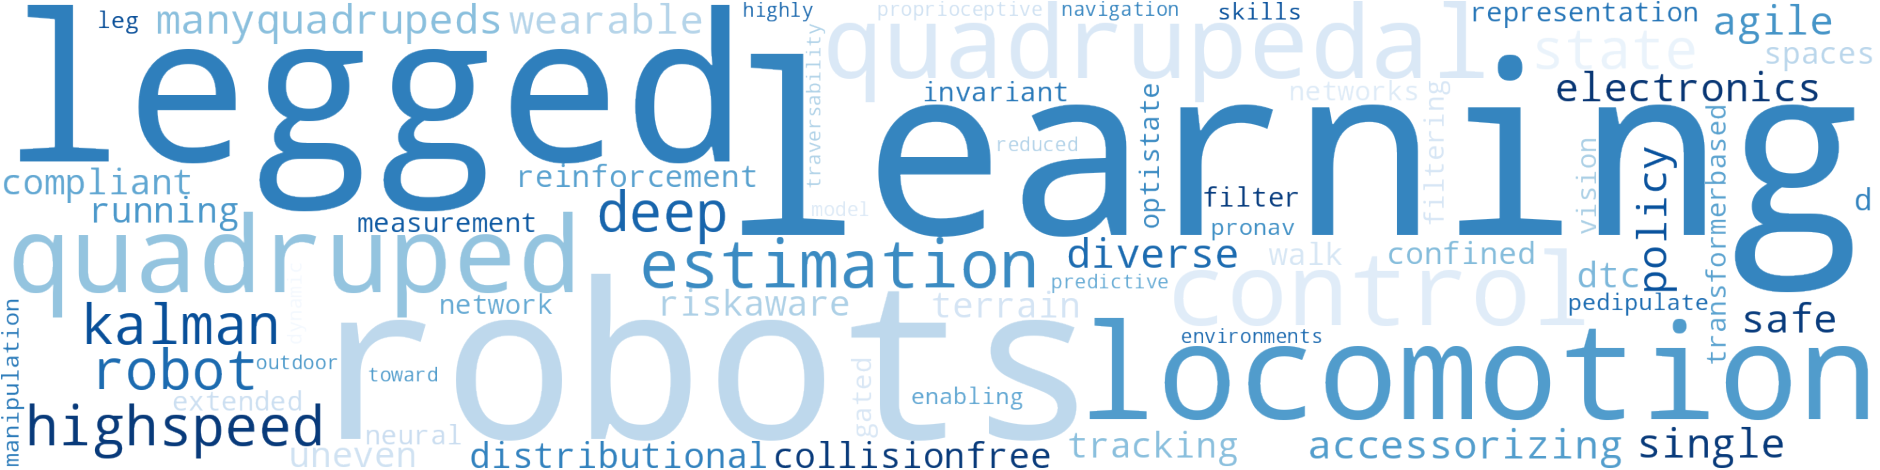
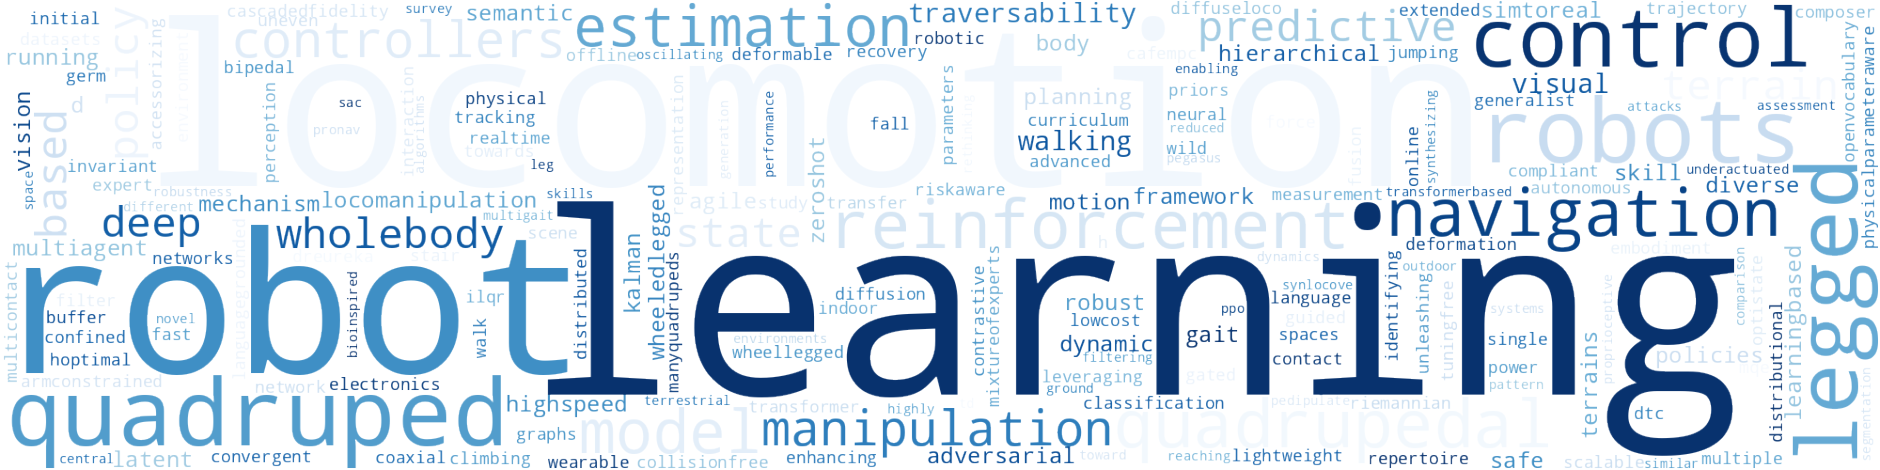
Update

diff --git a/assets/word_cloud.py b/assets/word_cloud.py
@@ -20,19 +20,58 @@ stopwords = set([
 # 1. Get the paper list from the user
 # papers_input = input("Please provide the list of papers:\n")
 papers_input = """
-- [ManyQuadrupeds: Learning a Single Locomotion Policy for Diverse Quadruped Robots](https://arxiv.org/abs/2310.10486)
+
+- [A Study of Lightweight, Low-cost Quadrupedal Robot Body Based on a Coaxial Deformation Mechanism](https://ieeexplore.ieee.org/abstract/document/10632940)
 - [Accessorizing Quadrupedal Robots with Wearable Electronics](https://onlinelibrary.wiley.com/doi/full/10.1002/aisy.202300633)
 - [Agile But Safe: Learning Collision-Free High-Speed Legged Locomotion](https://arxiv.org/abs/2401.17583)
+- [Arm-Constrained Curriculum Learning for Loco-Manipulation of the Wheel-Legged Robot](https://arxiv.org/abs/2403.16535)
+- [Body Transformer: Leveraging Robot Embodiment for Policy Learning](https://arxiv.org/abs/2408.06316)
+- [Cafe-Mpc: A Cascaded-Fidelity Model Predictive Control Framework with Tuning-Free Whole-Body Control](https://arxiv.org/abs/2403.03995)
+- [Contrastive Initial State Buffer for Reinforcement Learning](https://rpg.ifi.uzh.ch/docs/ICRA24_Messikommer.pdf)
+- [Convergent iLQR for Safe Trajectory Planning and Control of Legged Robots](https://arxiv.org/abs/2304.00346)
 - [Deep Compliant Control for Legged Robots](TBD)
+- [DiffuseLoco: Real-Time Legged Locomotion Control with Diffusion from Offline Datasets](https://arxiv.org/abs/2404.19264)
+- [DrEureka: Language Model Guided Sim-To-Real Transfer](https://eureka-research.github.io/dr-eureka/assets/dreureka-paper.pdf)
 - [DTC: Deep Tracking Control](https://www.science.org/doi/10.1126/scirobotics.adh5401)
+- [Dynamic Fall Recovery Control for Legged Robots via Reinforcement Learning](https://www.mdpi.com/2313-7673/9/4/193)
+- [Enhancing Quadruped Robot Locomotion on Deformable Terrains Through Contact Perception and Terrain Classification](https://papers.ssrn.com/sol3/papers.cfm?abstract_id=4682648)
+- [Expert Composer Policy: Scalable Skill Repertoire for Quadruped Robots](https://arxiv.org/abs/2403.11412)
+- [Fast Traversability Estimation for Wild Visual Navigation](https://arxiv.org/abs/2305.08510)
+- [GeRM: A Generalist Robotic Model with Mixture-of-experts for Quadruped Robot](https://arxiv.org/abs/2403.13358)
+- [H2- and H∞-Optimal Model Predictive Controllers for Robust Legged Locomotion](https://ieeexplore.ieee.org/document/10543084)
+- [Hierarchical Open-Vocabulary 3D Scene Graphs for Language-Grounded Robot Navigation](https://arxiv.org/pdf/2403.17846.pdf)
+- [Identifying Terrain Physical Parameters from Vision - Towards Physical-Parameter-Aware Locomotion and Navigation](https://arxiv.org/abs/2408.16567)
+- [Jumping Locomotion of Quadruped Robot During Running Based on Multiple Model Fusion](https://ieeexplore.ieee.org/abstract/document/10633053)
+- [Learning Advanced Locomotion for Quadrupedal Robots: A Distributed Multi-Agent Reinforcement Learning Framework with Riemannian Motion Policies](https://www.mdpi.com/2218-6581/13/6/86)
+- [Learning Bipedal Walking on a Quadruped Robot via Adversarial Motion Priors](https://arxiv.org/abs/2407.02282)
+- [Learning Force Control for Legged Manipulation](https://arxiv.org/abs/2405.01402)
 - [Learning Quadrupedal High-Speed Running on Uneven Terrain](https://www.mdpi.com/2313-7673/9/1/37)
 - [Learning Risk-Aware Quadrupedal Locomotion using Distributional Reinforcement Learning](https://arxiv.org/abs/2309.14246)
+- [Learning robust autonomous navigation and locomotion for wheeled-legged robots](https://www.science.org/doi/10.1126/scirobotics.adi9641)
 - [Learning to walk in confined spaces using 3D representation](https://arxiv.org/abs/2403.00187)
+- [Learning-Based Locomotion Controllers for Quadruped Robots in Indoor Stair Climbing via Deep Reinforcement Learning](https://ieeexplore.ieee.org/abstract/document/10594976)
 - [Legged Robot State Estimation With Invariant Extended Kalman Filter Using Neural Measurement Network](https://arxiv.org/abs/2402.00366)
+- [ManyQuadrupeds: Learning a Single Locomotion Policy for Diverse Quadruped Robots](https://arxiv.org/abs/2310.10486)
+- [MQE: Unleashing the Power of Interaction with Multi-agent Quadruped Environment](https://arxiv.org/abs/2403.16015)
+- [Online Hierarchical Planning for Multicontact Locomotion Control of Quadruped Robots](https://ieeexplore.ieee.org/abstract/document/10614673)
 - [OptiState: State Estimation of Legged Robots using Gated Networks with Transformer-based Vision and Kalman Filtering](https://arxiv.org/abs/2401.16719)
+- [Oscillating latent dynamics in robot systems during walking and reaching](https://www.nature.com/articles/s41598-024-61610-5)
 - [Pedipulate: Enabling Manipulation Skills using a Quadruped Robot's Leg](https://arxiv.org/abs/2402.10837)
+- [Pegasus: a Novel Bio-inspired Quadruped Robot with Underactuated Wheeled-Legged Mechanism *](https://ieeexplore.ieee.org/document/10611633)
 - [ProNav: Proprioceptive Traversability Estimation for Legged Robot Navigation in Outdoor Environments](https://arxiv.org/abs/2307.09754)
 - [Reduced Model Predictive Control Toward Highly Dynamic Quadruped Locomotion](https://ieeexplore.ieee.org/document/10418132/)
+- [Rethinking Robustness Assessment: Adversarial Attacks on Learning-based Quadrupedal Locomotion Controllers](https://arxiv.org/abs/2405.12424)
+- [Sim-to-Real: A Performance Comparison of PPO, TD3, and SAC Reinforcement Learning Algorithms for Quadruped Walking Gait Generation](https://www.scirp.org/journal/paperinformation?paperid=131938)
+- [Similar but Different: A Survey of Ground Segmentation and Traversability Estimation for Terrestrial Robots](https://arxiv.org/abs/2312.16839)
+- [Skill Latent Space Based Multigait Learning for a Legged Robot](https://ieeexplore.ieee.org/abstract/document/10612828)
+- [SYNLOCO‐VE: Synthesizing central pattern generator with reinforcement learning and velocity estimator for quadruped locomotion](https://onlinelibrary.wiley.com/doi/abs/10.1002/oca.3181)
+- [Track2Act: Predicting Point Tracks from Internet Videos enables Diverse Zero-shot Robot Manipulation](https://arxiv.org/abs/2405.01527)
+- [UMI on Legs: Making Manipulation Policies Mobile with Manipulation-Centric Whole-body Controllers](https://arxiv.org/abs/2407.10353)
+- [Understanding URDF: A Dataset and Analysis](https://ieeexplore.ieee.org/abstract/document/10478618)
+- [Viability leads to the emergence of gait transitions in learning agile quadrupedal locomotion on challenging terrains](https://www.nature.com/articles/s41467-024-47443-w)
+- [ViPlanner: Visual Semantic Imperative Learning for Local Navigation](https://arxiv.org/abs/2310.00982)
+- [Visual Whole-Body Control for Legged Loco-Manipulation](https://arxiv.org/abs/2403.16967)
+- [VLFM: Vision-Language Frontier Maps for Zero-Shot Semantic Navigation](https://arxiv.org/abs/2312.03275)
 """
 
 # 2. Ask the user for the title of the picture

diff --git a/README.md b/README.md
@@ -68,6 +68,7 @@
 - [Hierarchical Open-Vocabulary 3D Scene Graphs for Language-Grounded Robot Navigation](https://arxiv.org/pdf/2403.17846.pdf)
 - [Identifying Terrain Physical Parameters from Vision - Towards Physical-Parameter-Aware Locomotion and Navigation](https://arxiv.org/abs/2408.16567)
 - [Jumping Locomotion of Quadruped Robot During Running Based on Multiple Model Fusion](https://ieeexplore.ieee.org/abstract/document/10633053)
+- [Learning Advanced Locomotion for Quadrupedal Robots: A Distributed Multi-Agent Reinforcement Learning Framework with Riemannian Motion Policies](https://www.mdpi.com/2218-6581/13/6/86)
 - [Learning Bipedal Walking on a Quadruped Robot via Adversarial Motion Priors](https://arxiv.org/abs/2407.02282)
 - [Learning Force Control for Legged Manipulation](https://arxiv.org/abs/2405.01402)
 - [Learning Quadrupedal High-Speed Running on Uneven Terrain](https://www.mdpi.com/2313-7673/9/1/37)
